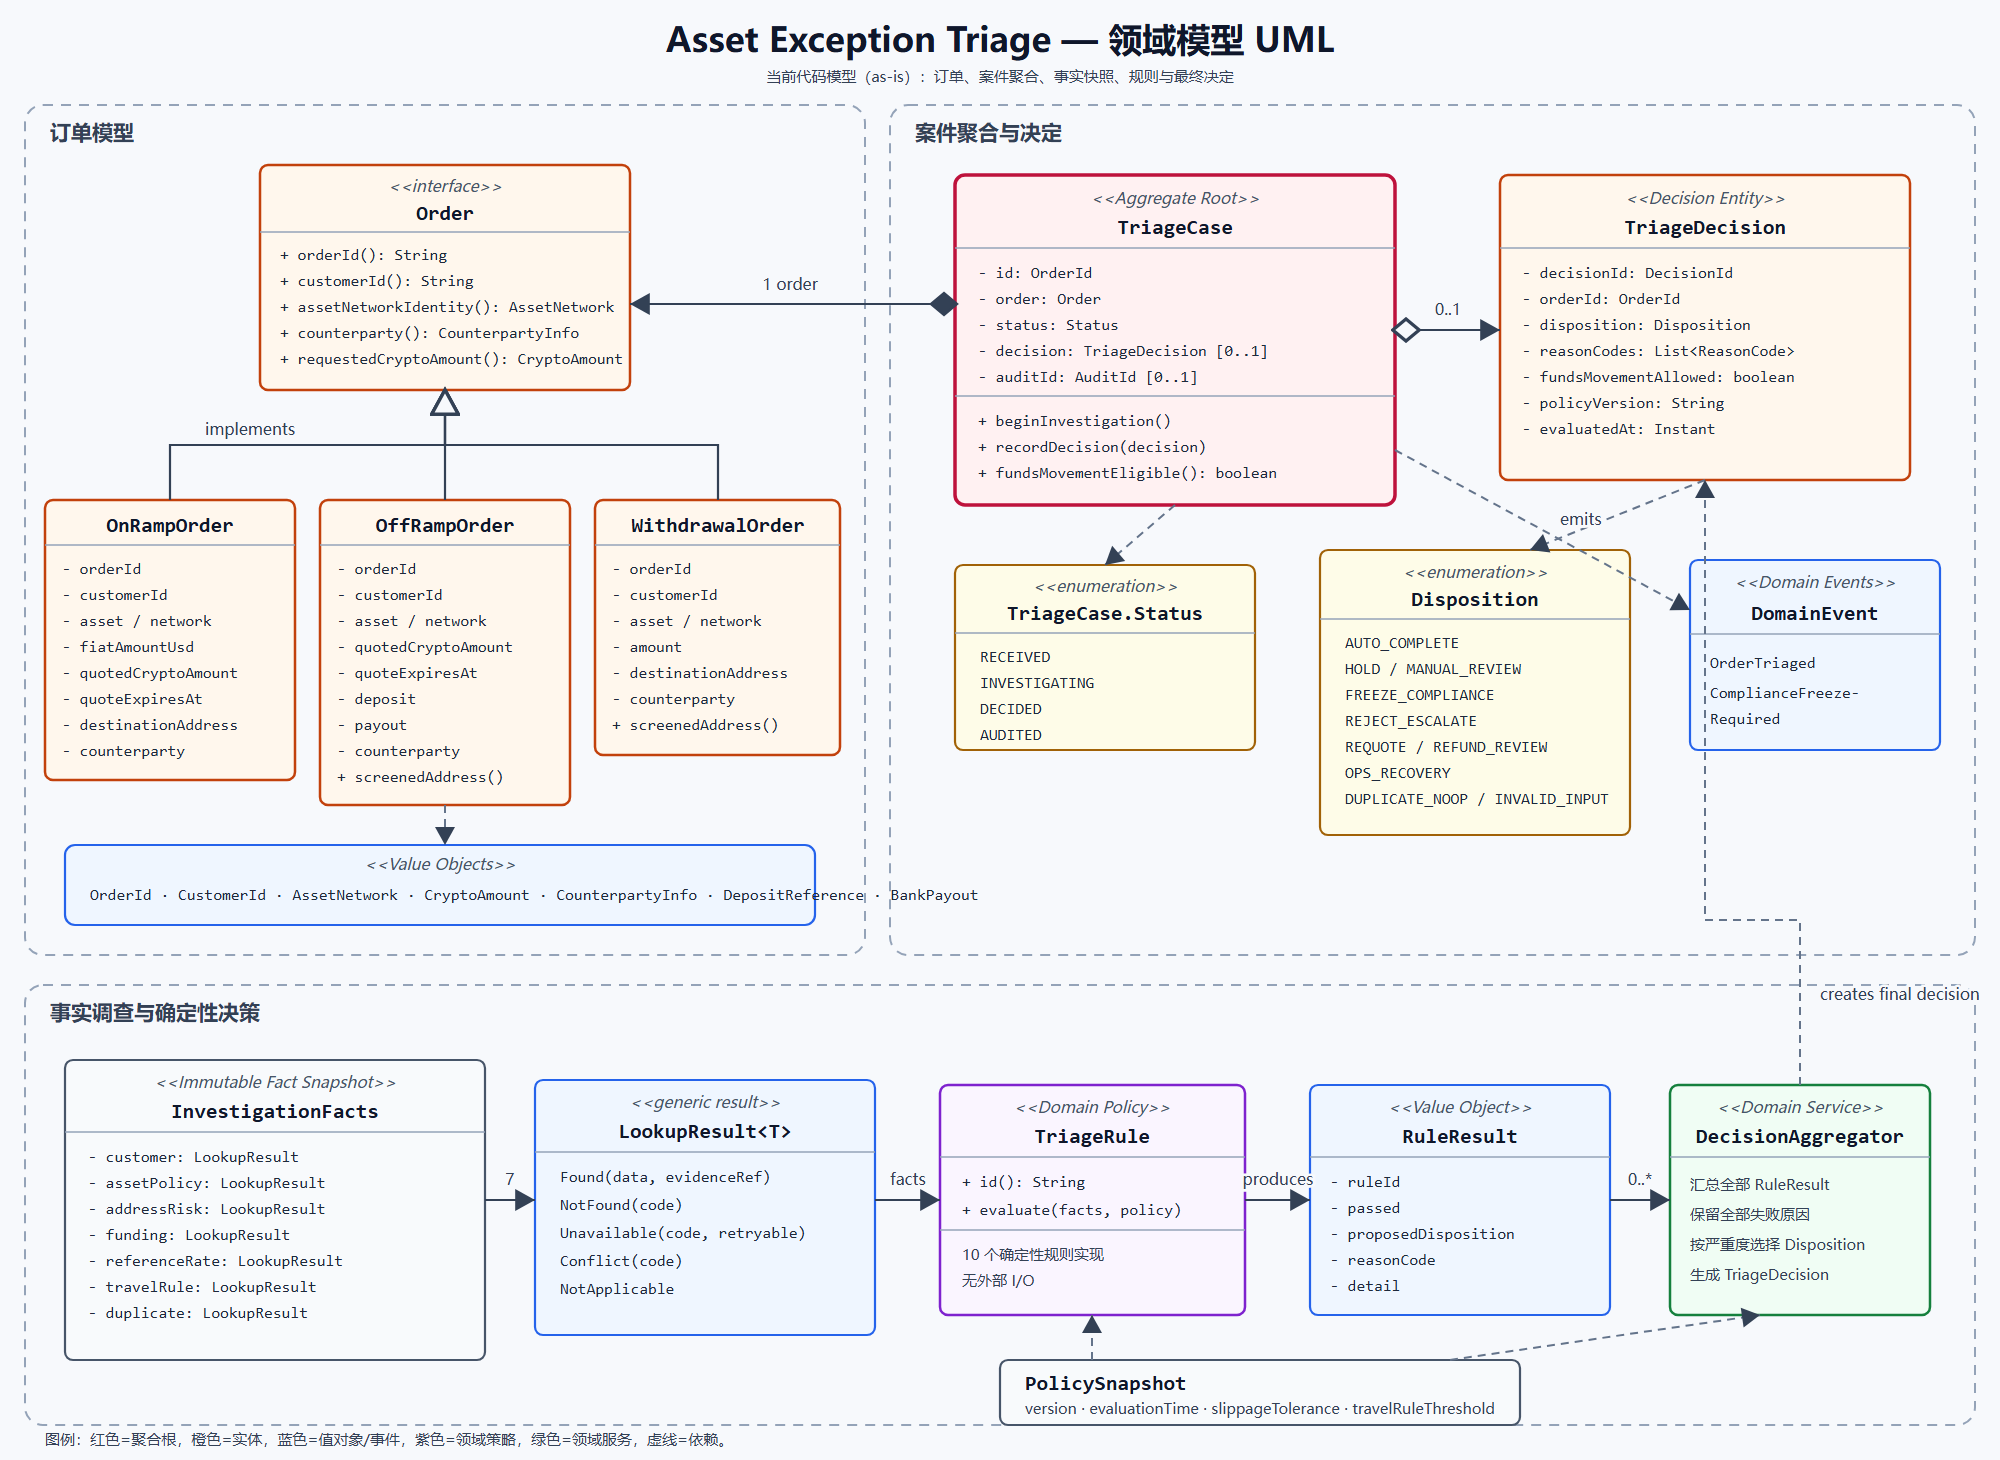
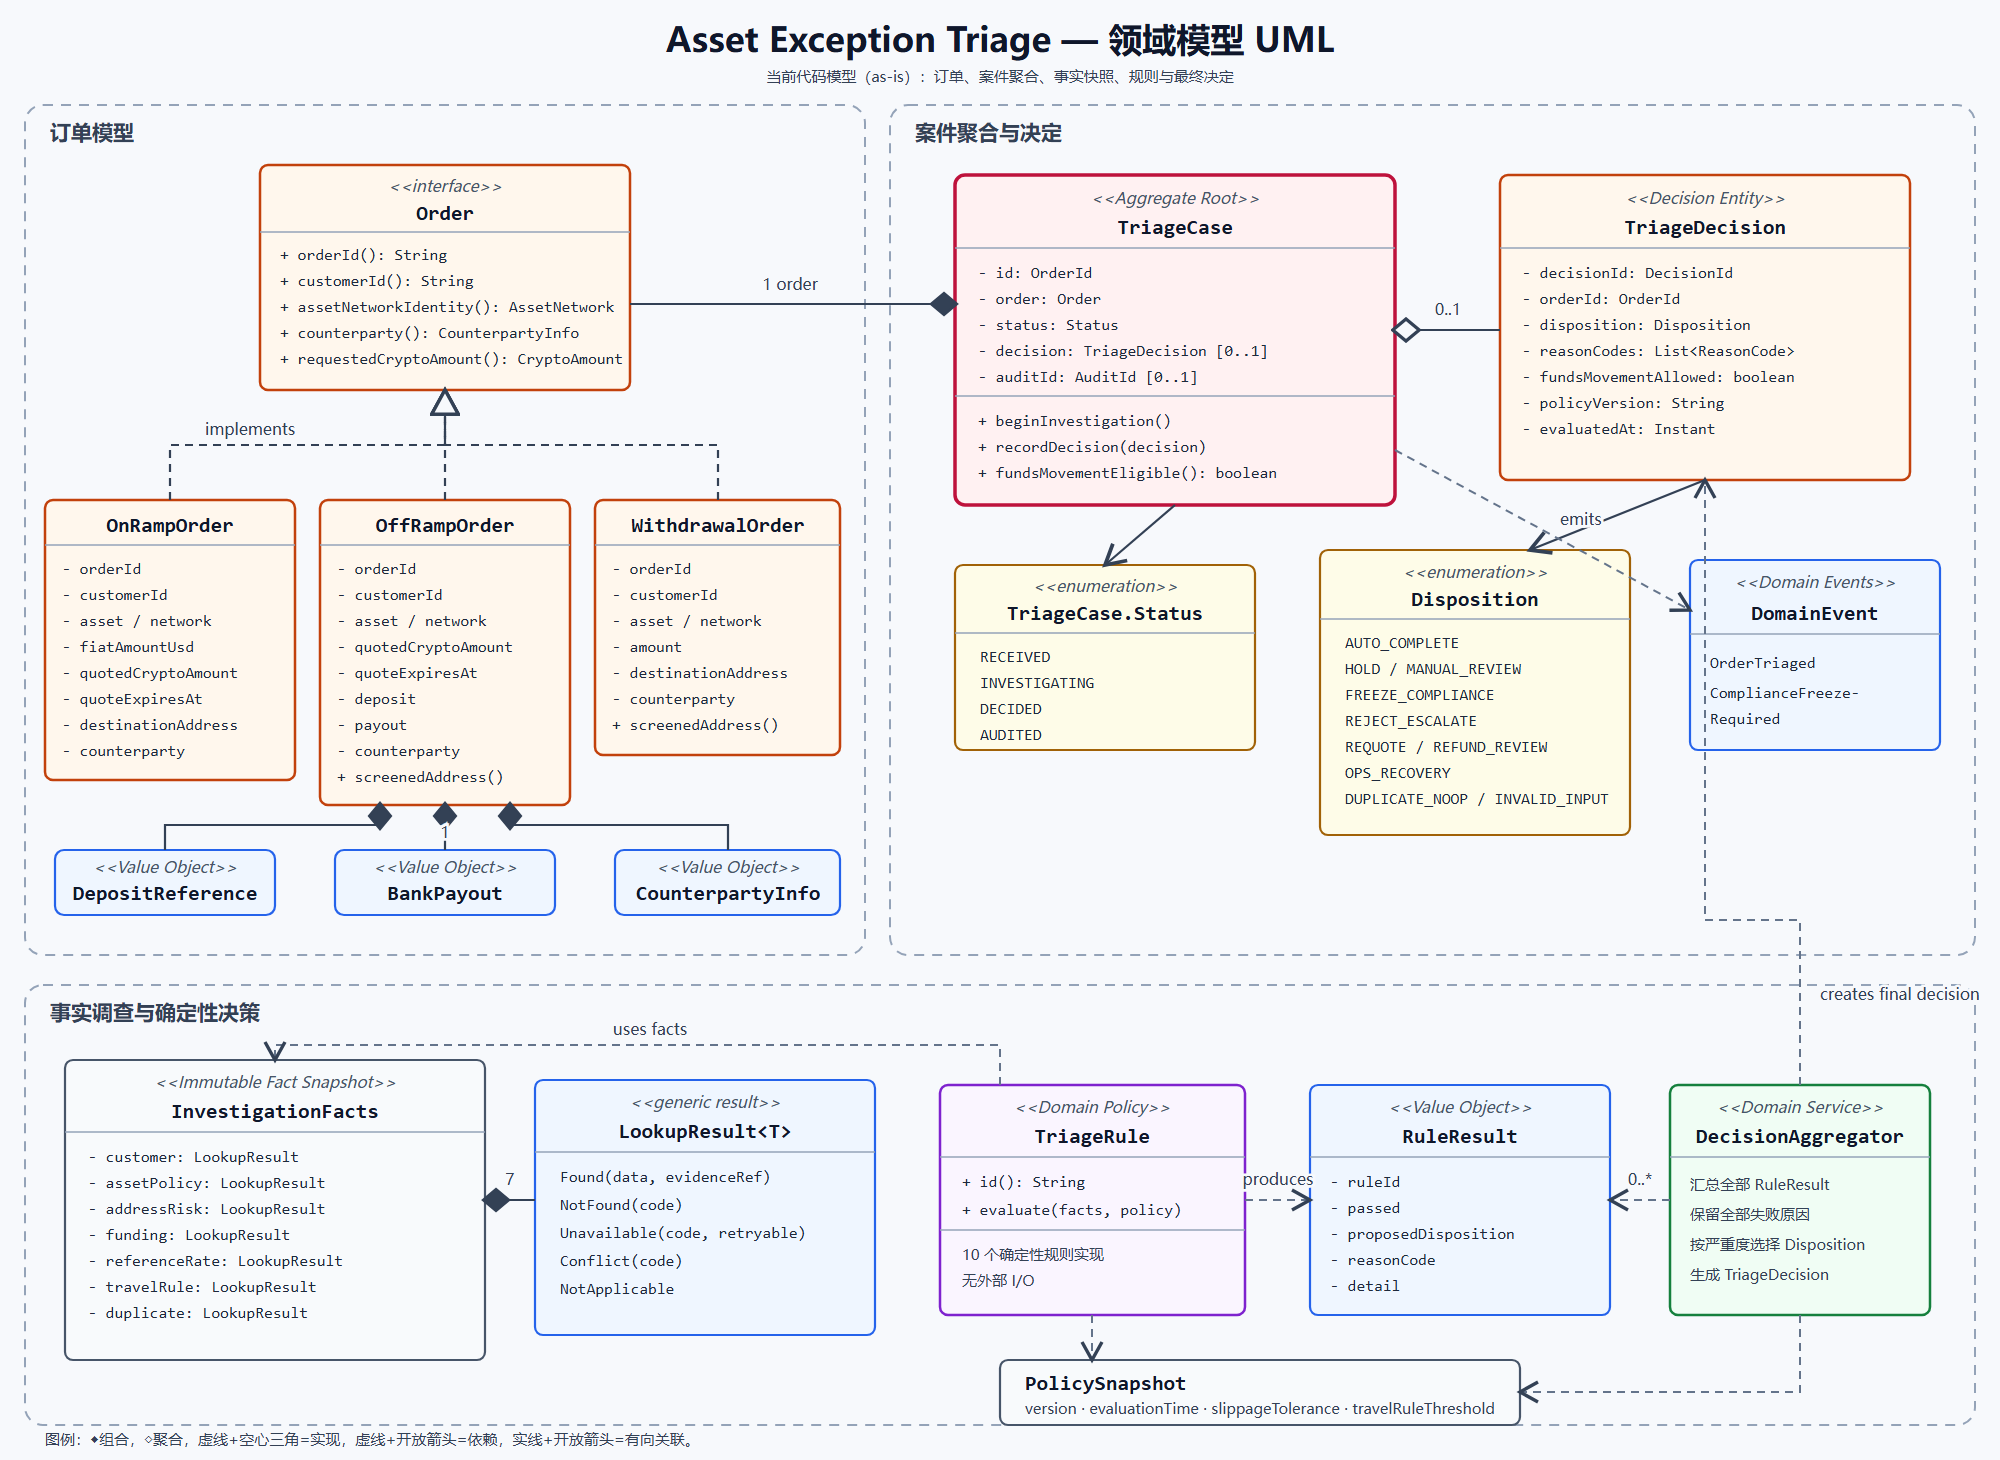
修正UML类图关系

diff --git a/doc/DOMAIN_MODEL_UML.md b/doc/DOMAIN_MODEL_UML.md
@@ -6,14 +6,28 @@
 
 下面两张是可直接打开、缩放且适合放进面试材料的 SVG UML 图：
 
-![领域模型 UML](images/domain-model-uml.svg)
+![领域模型 UML](images/domain-model-uml.png)
 
-![TriageCase 状态 UML](images/triage-case-state-uml.svg)
+![TriageCase 状态 UML](images/triage-case-state-uml.png)
 
 图片原文件：
 
 - [领域模型类图](images/domain-model-uml.svg)
+- [领域模型类图 PNG（IDEA 直接预览）](images/domain-model-uml.png)
 - [TriageCase 状态图](images/triage-case-state-uml.svg)
+- [TriageCase 状态图 PNG（IDEA 直接预览）](images/triage-case-state-uml.png)
+
+组合关系说明：实心菱形位于“整体”一端。例如 `OffRampOrder ◆── DepositReference` 中，菱形必须靠近 `OffRampOrder`；`DepositReference` 是被包含的部分。
+
+关系符号采用标准 UML 语义：
+
+- `◆──`：组合，实心菱形位于整体一端；
+- `◇──`：聚合，空心菱形位于聚合方；
+- `- - -▷`：接口实现，虚线加空心三角形，三角形指向接口；
+- `- - ->`：依赖，虚线加开放箭头，箭头指向被依赖对象；
+- `──>`：有向关联，实线加开放箭头。
+
+因此 `TriageRule - - -> PolicySnapshot` 表示规则使用策略快照，方向不能反过来。
 
 ## 1. DDD 角色概览
 
